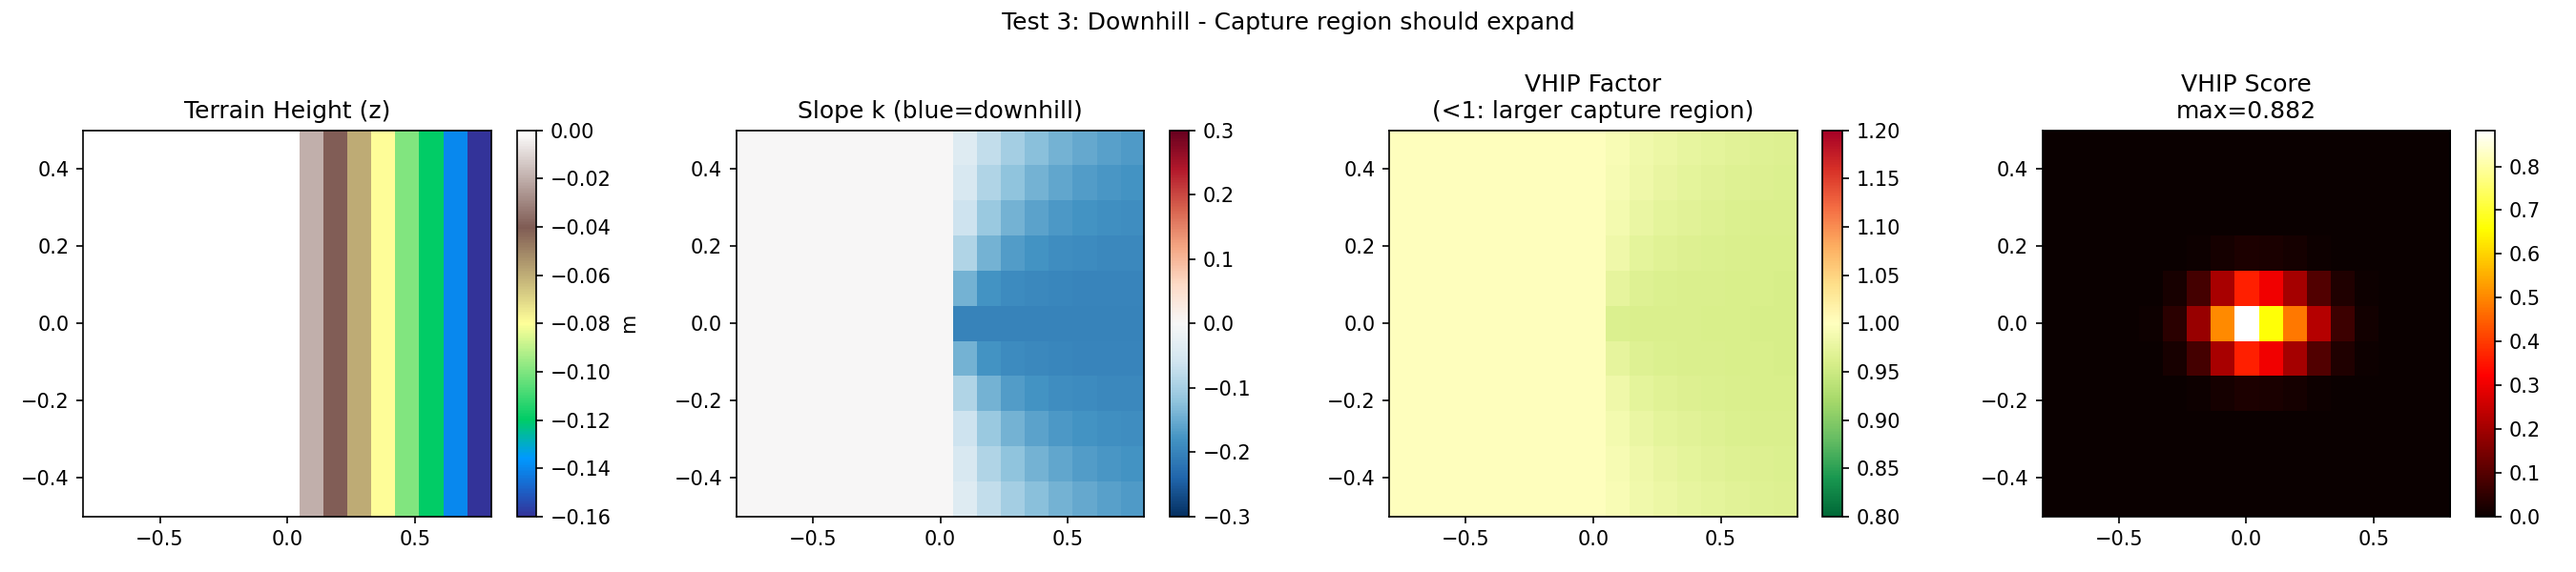
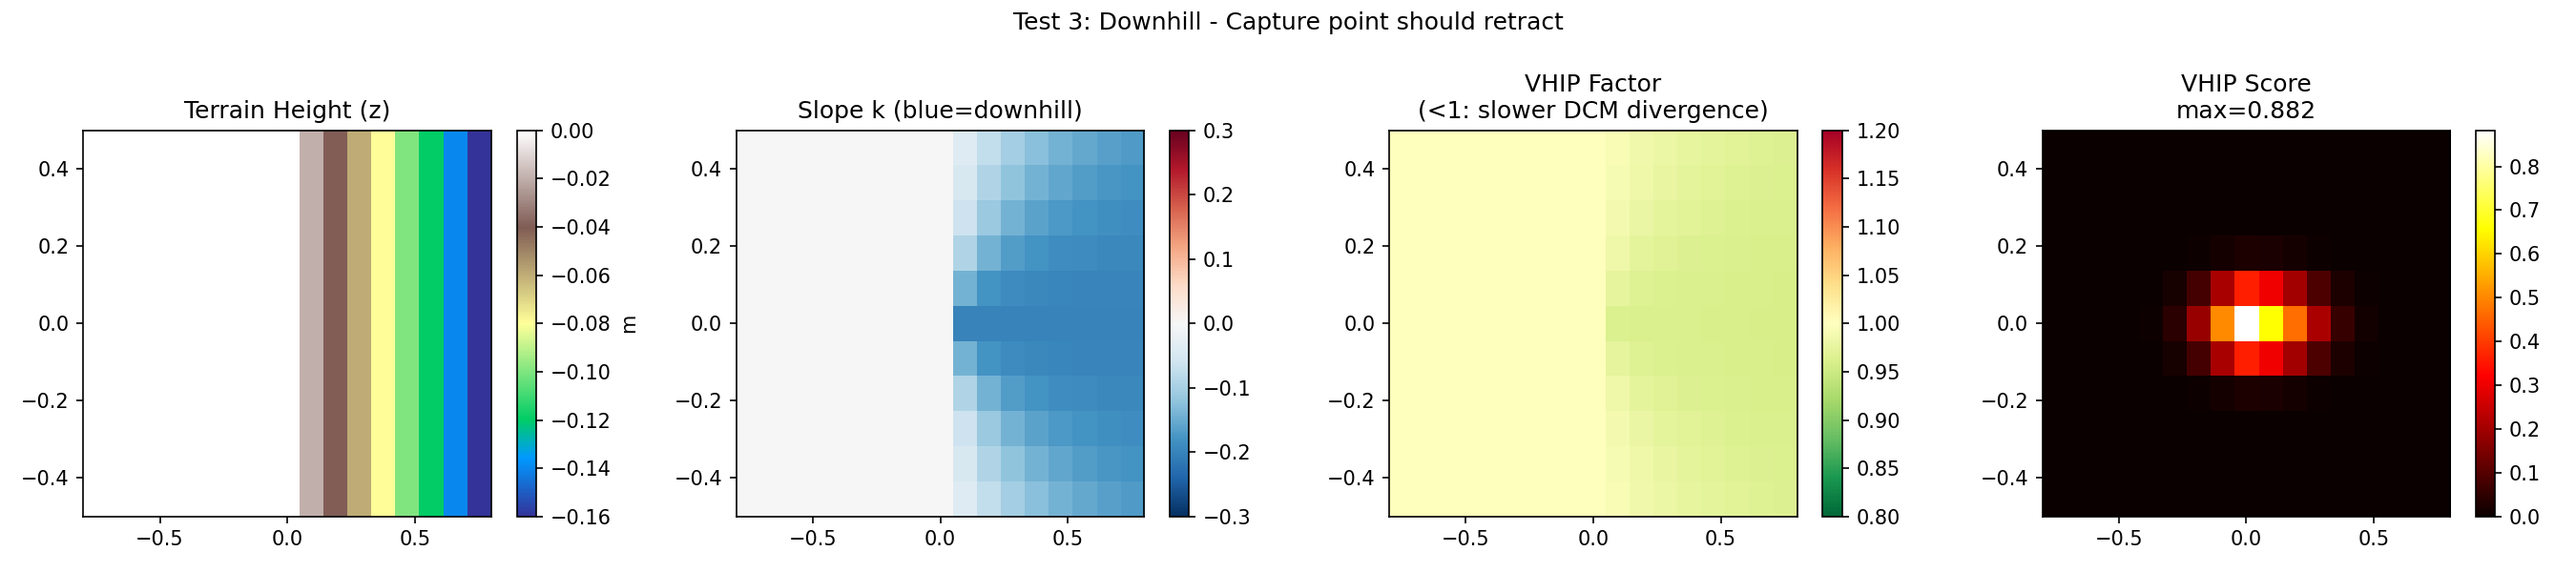
1. terrain_safety_scorer.py： - 将有问题的 LIP Score 替换为 VHIP Score - 考虑了变高度的捕获域修正 2. actor_critic_depth_heightpoint.py： - 将 Point Encoder 改为 位置编码 + 高度分离 - 解决了 (x, y) 固定导致特征相似的问题

Changed region(s): [[0.3733, 0.0, 0.6222, 0.06], [0.5289, 0.18, 0.6844, 0.21]]

diff --git a/MoRE/legged_gym/scripts/test_vhip_scorer.py b/MoRE/legged_gym/scripts/test_vhip_scorer.py
@@ -9,8 +9,8 @@
 
 测试场景:
 1. 平地 (Flat): k=0, VHIP 退化为 LIP
-2. 上坡 (Uphill): k>0, 捕获域应该变小（需要踩得更近）
-3. 下坡 (Downhill): k<0, 捕获域应该变大（可以踩得更远）
+2. 上坡 (Uphill): k>0, DCM 发散更快，为“接住”它需要迈得更远
+3. 下坡 (Downhill): k<0, DCM 发散更慢，捕获点相对缩进
 4. 台阶 (Step): 边缘 k 很大，应该低分
 5. 踏脚石 (Stepping Stones): k≈0，应该正常工作
 6. 间隙 (Gap): 中间 k 剧变，边缘应该低分
@@ -39,8 +39,8 @@ class VHIPScorer:
     - DCM 演化修正因子: (1 + k / (2 * sqrt(g * z)))
     
     捕获域判断:
-    - 上坡 (k > 0): 捕获域变小，需要踩得更近
-    - 下坡 (k < 0): 捕获域变大，可以踩得更远
+    - 上坡 (k > 0): DCM 发散更快 → 捕获点更远
+    - 下坡 (k < 0): DCM 发散更慢 → 捕获点缩进
     - 平地 (k = 0): 退化为标准 LIP
     """
     
@@ -97,8 +97,8 @@ class VHIPScorer:
         z_eff = torch.clamp(z_eff, min=0.1)  # 防止负值或过小
         
         # VHIP 修正因子
-        # 当 k > 0 (上坡): factor > 1, DCM 发散更快, 捕获域变小
-        # 当 k < 0 (下坡): factor < 1, DCM 发散更慢, 捕获域变大
+        # 当 k > 0 (上坡): factor > 1, DCM 发散更快 → 捕获点更远
+        # 当 k < 0 (下坡): factor < 1, DCM 发散更慢 → 捕获点缩进
         # 当 k = 0 (平地): factor = 1, 退化为 LIP
         vhip_factor = 1 + k / (2 * torch.sqrt(self.g * z_eff))
         
@@ -144,9 +144,9 @@ class VHIPScorer:
         p_nominal_mag = (self.T_stance / 2) * v_mag  # [B, 1]
         
         # Step 5: VHIP 修正后的捕获点距离
-        # 上坡时 vhip_factor > 1, 捕获点变近 (p_capture < p_nominal)
-        # 下坡时 vhip_factor < 1, 捕获点变远 (p_capture > p_nominal)
-        p_capture_mag = p_nominal_mag / torch.clamp(vhip_factor, min=0.5, max=2.0)  # [B, num_points]
+        # 上坡时 vhip_factor > 1: DCM 发散更快 → 捕获点更远 (p_capture > p_nominal)
+        # 下坡时 vhip_factor < 1: DCM 发散更慢 → 捕获点缩进 (p_capture < p_nominal)
+        p_capture_mag = p_nominal_mag * torch.clamp(vhip_factor, min=0.5, max=2.0)  # [B, num_points]
         
         # Step 6: 计算每个采样点在速度方向上的投影距离
         point_x = height_points[..., 0]  # [B, num_points]
@@ -273,9 +273,9 @@ def test_flat_terrain():
 
 
 def test_uphill():
-    """测试 2: 上坡 - 捕获域应该变小"""
+    """测试 2: 上坡 - 捕获点应更远"""
     print("\n" + "=" * 60)
-    print("测试 2: 上坡 (Uphill) - 捕获域应该变小")
+    print("测试 2: 上坡 (Uphill) - 捕获点应更远")
     print("=" * 60)
     
     height_points = create_height_points()
@@ -317,7 +317,7 @@ def test_uphill():
     vhip_grid = debug['vhip_factor'].view(17, 11).numpy()
     im = ax.imshow(vhip_grid.T, origin='lower', cmap='RdYlGn_r', aspect='auto',
                    extent=[-0.8, 0.8, -0.5, 0.5], vmin=0.8, vmax=1.2)
-    ax.set_title('VHIP Factor\n(>1: smaller capture region)')
+    ax.set_title('VHIP Factor\n(>1: faster DCM divergence)')
     plt.colorbar(im, ax=ax)
     
     # VHIP 评分
@@ -331,7 +331,7 @@ def test_uphill():
     ax.legend(loc='upper right', fontsize=8)
     plt.colorbar(im, ax=ax)
     
-    plt.suptitle('Test 2: Uphill - Capture region should shrink', fontsize=12)
+    plt.suptitle('Test 2: Uphill - Capture point should be farther', fontsize=12)
     plt.tight_layout()
     plt.savefig('test_vhip_uphill.png', dpi=150)
     
@@ -339,15 +339,15 @@ def test_uphill():
     print(f"    - p_nominal = {debug['p_nominal'][0,0]:.3f} m")
     print(f"    - 平均坡度 k = {debug['slope_k'].mean():.3f}")
     print(f"    - VHIP factor 范围: [{debug['vhip_factor'].min():.3f}, {debug['vhip_factor'].max():.3f}]")
-    print(f"    - 前方 p_capture 比 p_nominal 更近 (因为上坡)")
+    print(f"    - 前方 p_capture 比 p_nominal 更远 (因为上坡)")
     print("  图片保存到: test_vhip_uphill.png")
     plt.close()
 
 
 def test_downhill():
-    """测试 3: 下坡 - 捕获域应该变大"""
+    """测试 3: 下坡 - 捕获点应缩进"""
     print("\n" + "=" * 60)
-    print("测试 3: 下坡 (Downhill) - 捕获域应该变大")
+    print("测试 3: 下坡 (Downhill) - 捕获点应缩进")
     print("=" * 60)
     
     height_points = create_height_points()
@@ -387,7 +387,7 @@ def test_downhill():
     vhip_grid = debug['vhip_factor'].view(17, 11).numpy()
     im = ax.imshow(vhip_grid.T, origin='lower', cmap='RdYlGn_r', aspect='auto',
                    extent=[-0.8, 0.8, -0.5, 0.5], vmin=0.8, vmax=1.2)
-    ax.set_title('VHIP Factor\n(<1: larger capture region)')
+    ax.set_title('VHIP Factor\n(<1: slower DCM divergence)')
     plt.colorbar(im, ax=ax)
     
     # VHIP 评分
@@ -398,14 +398,14 @@ def test_downhill():
     ax.set_title(f'VHIP Score\nmax={score.max():.3f}')
     plt.colorbar(im, ax=ax)
     
-    plt.suptitle('Test 3: Downhill - Capture region should expand', fontsize=12)
+    plt.suptitle('Test 3: Downhill - Capture point should retract', fontsize=12)
     plt.tight_layout()
     plt.savefig('test_vhip_downhill.png', dpi=150)
     
     print(f"  向前走 (vx=0.5 m/s) 在下坡地形:")
     print(f"    - p_nominal = {debug['p_nominal'][0,0]:.3f} m")
     print(f"    - VHIP factor 范围: [{debug['vhip_factor'].min():.3f}, {debug['vhip_factor'].max():.3f}]")
-    print(f"    - 前方 p_capture 比 p_nominal 更远 (因为下坡)")
+    print(f"    - 前方 p_capture 比 p_nominal 更近 (因为下坡)")
     print("  图片保存到: test_vhip_downhill.png")
     plt.close()
 
@@ -694,7 +694,7 @@ def test_comparison_lip_vs_vhip():
     vhip_grid = vhip_score.view(17, 11).numpy()
     im = ax.imshow(vhip_grid.T, origin='lower', cmap='hot', aspect='auto',
                    extent=[-0.8, 0.8, -0.5, 0.5])
-    ax.set_title('VHIP Score (considers slope)\nCapture closer on uphill')
+    ax.set_title('VHIP Score (considers slope)\nCapture farther on uphill')
     plt.colorbar(im, ax=ax)
     
     # 差异
@@ -711,7 +711,7 @@ def test_comparison_lip_vs_vhip():
     
     print(f"  LIP vs VHIP 对比 (上坡 k=0.25):")
     print(f"    - LIP 捕获点: d = {p_nominal:.3f} m (固定)")
-    print(f"    - VHIP 修正后: 上坡处捕获点更近")
+    print(f"    - VHIP 修正后: 上坡处捕获点更远")
     print(f"    - LIP 分数范围: [{lip_score.min():.4f}, {lip_score.max():.4f}]")
     print(f"    - VHIP 分数范围: [{vhip_score.min():.4f}, {vhip_score.max():.4f}]")
     print("  图片保存到: test_vhip_comparison.png")
@@ -743,8 +743,8 @@ def main():
     print("=" * 60)
     print("\n关键结论:")
     print("  1. 平地 (k=0): VHIP 退化为 LIP，正常工作")
-    print("  2. 上坡 (k>0): 捕获域变小，分数向机器人靠近")
-    print("  3. 下坡 (k<0): 捕获域变大，分数向远处扩展")
+    print("  2. 上坡 (k>0): DCM 发散更快，捕获点更远")
+    print("  3. 下坡 (k<0): DCM 发散更慢，捕获点缩进")
     print("  4. 台阶边缘: 陡峭惩罚使边缘分数降低")
     print("  5. 踏脚石: k≈0 的区域正常评分")
     print("  6. 交替斜坡: VHIP 能正确处理周期性地形")
@@ -752,4 +752,5 @@ def main():
 
 if __name__ == '__main__':
     main()
+
 

diff --git a/MoRE/rsl_rl/rsl_rl/modules/actor_critic_depth_heightpoint.py b/MoRE/rsl_rl/rsl_rl/modules/actor_critic_depth_heightpoint.py
@@ -153,13 +153,15 @@ class HeightPointAttentionEncoder(nn.Module):
     
     核心特性：
     - 使用显式的地形高度采样点代替深度图像特征图
-    - 每个点有明确的物理坐标 (x, y) 和高度 z
+    - **位置编码 + 高度分离**: 解决 (x, y) 固定导致特征相似的问题
+      - 可学习的 2D 位置编码 (每个网格位置一个 embedding)
+      - 高度 z 独立编码，不被固定的 (x, y) 淹没
     - 注意力权重具有明确的空间可解释性
     - Sim2Real 友好：几何信息在仿真和真实世界中一致
     
-    基于 LIP + 平坦度的注意力引导机制：
-    - Query 仅使用本体感知 (proprioception)，不再使用 Raibert 启发式落足点
-    - 注意力偏置：将物理安全分数作为偏置加入，直接引导注意力
+    基于 VHIP + 平坦度的注意力引导机制：
+    - Query 仅使用本体感知 (proprioception)
+    - 注意力偏置：将 VHIP 安全分数作为偏置加入，直接引导注意力
     - 注意力监督：使用 KL 散度作为 loss，进一步强化学习
     
     输入:
@@ -194,12 +196,20 @@ class HeightPointAttentionEncoder(nn.Module):
         self.output_dim = output_dim
         self.use_safety_bias = use_safety_bias
         
-        # ========== 点特征编码器 ==========
-        # 将每个高度点 (x, y, z) 编码为特征向量
-        # 输入: 3 (x, y, height)
+        # ========== 新设计: 位置编码 + 高度编码分离 ==========
+        # 解决原来 (x, y) 固定导致特征相似的问题
+        
+        # 可学习的 2D 位置编码 (每个网格位置一个 embedding)
+        # 初始化为小的随机值
+        self.pos_embedding = nn.Parameter(
+            torch.randn(self.num_points, point_feature_dim) * 0.02
+        )
+        
+        # 高度编码器 (只处理 z，让高度信息独立表达)
+        # 输入: 1 (只有 z)
         # 输出: point_feature_dim
-        self.point_encoder = nn.Sequential(
-            nn.Linear(3, 32),
+        self.height_encoder = nn.Sequential(
+            nn.Linear(1, 32),
             nn.ELU(),
             nn.Linear(32, point_feature_dim),
             nn.ELU()
@@ -207,7 +217,7 @@ class HeightPointAttentionEncoder(nn.Module):
         
         # ========== Query 生成器 ==========
         # Query = MLP(proprioception)
-        # 只使用本体感知，不再使用 Raibert 启发式落足点
+        # 只使用本体感知
         query_input_dim = proprio_dim
         self.query_mlp = nn.Sequential(
             nn.Linear(query_input_dim, hidden_dim),
@@ -272,9 +282,19 @@ class HeightPointAttentionEncoder(nn.Module):
         
         num_points = height_points_flat.shape[1]
         
-        # ========== Step A: 编码每个高度点 ==========
-        # height_points_flat: [B, num_points, 3] -> [B, num_points, point_feature_dim]
-        point_features = self.point_encoder(height_points_flat)  # [B, num_points, point_feature_dim]
+        # ========== Step A: 编码每个高度点 (位置编码 + 高度分离) ==========
+        # 只使用高度 z 进行编码，位置信息通过可学习的 pos_embedding 注入
+        # 这解决了原来 (x, y) 固定导致特征相似的问题
+        
+        # A.1: 提取高度 z (第 3 维)
+        z_only = height_points_flat[:, :, 2:3]  # [B, num_points, 1]
+        
+        # A.2: 高度编码 (独立处理高度信息)
+        height_feature = self.height_encoder(z_only)  # [B, num_points, point_feature_dim]
+        
+        # A.3: 加上可学习的位置编码
+        # pos_embedding: [num_points, point_feature_dim] -> 广播到 [B, num_points, point_feature_dim]
+        point_features = height_feature + self.pos_embedding  # [B, num_points, point_feature_dim]
         
         # ========== Step B: 构建 Query (仅本体感知) ==========
         query = self.query_mlp(proprioception).unsqueeze(1)  # [B, 1, hidden_dim]
@@ -292,7 +312,7 @@ class HeightPointAttentionEncoder(nn.Module):
         # 保存原始注意力分数（用于调试/分析）
         self.last_raw_attn_scores = raw_attn_scores.detach()
         
-        # ========== Step E: 添加安全偏置 (LIP + 平坦度引导) ==========
+        # ========== Step E: 添加安全偏置 (VHIP + 平坦度引导) ==========
         if self.use_safety_bias and safety_scores is not None and beta > 0:
             # biased_attention = raw_attention + β × safety_scores
             biased_attn_scores = raw_attn_scores + beta * safety_scores

diff --git a/MoRE/legged_gym/envs/base/terrain_safety_scorer.py b/MoRE/legged_gym/envs/base/terrain_safety_scorer.py
@@ -167,9 +167,9 @@ class TerrainSafetyScorer(nn.Module):
         p_nominal_mag = (self.T_stance / 2) * v_mag  # [B, 1]
         
         # ========== Step 4: VHIP 修正后的捕获点距离 ==========
-        # 上坡时 vhip_factor > 1, 捕获点变近
-        # 下坡时 vhip_factor < 1, 捕获点变远
-        p_capture_mag = p_nominal_mag / vhip_factor  # [B, num_points]
+        # 上坡时 vhip_factor > 1: DCM 发散更快 → 为“接住”它需要迈得更远
+        # 下坡时 vhip_factor < 1: DCM 发散更慢 → 捕获点会相对缩进
+        p_capture_mag = p_nominal_mag * vhip_factor  # [B, num_points]
         
         # ========== Step 5: 计算每个点到捕获点的距离 ==========
         # 在速度方向上的投影
